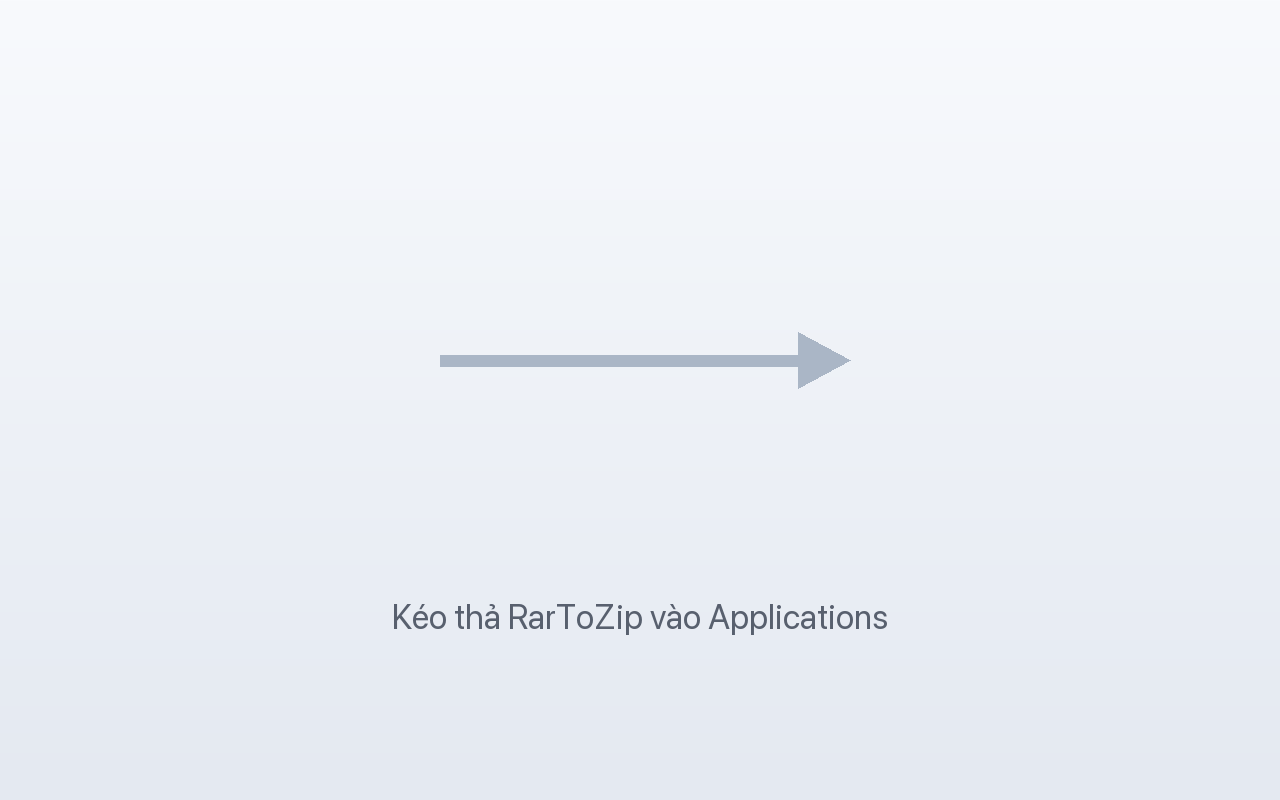
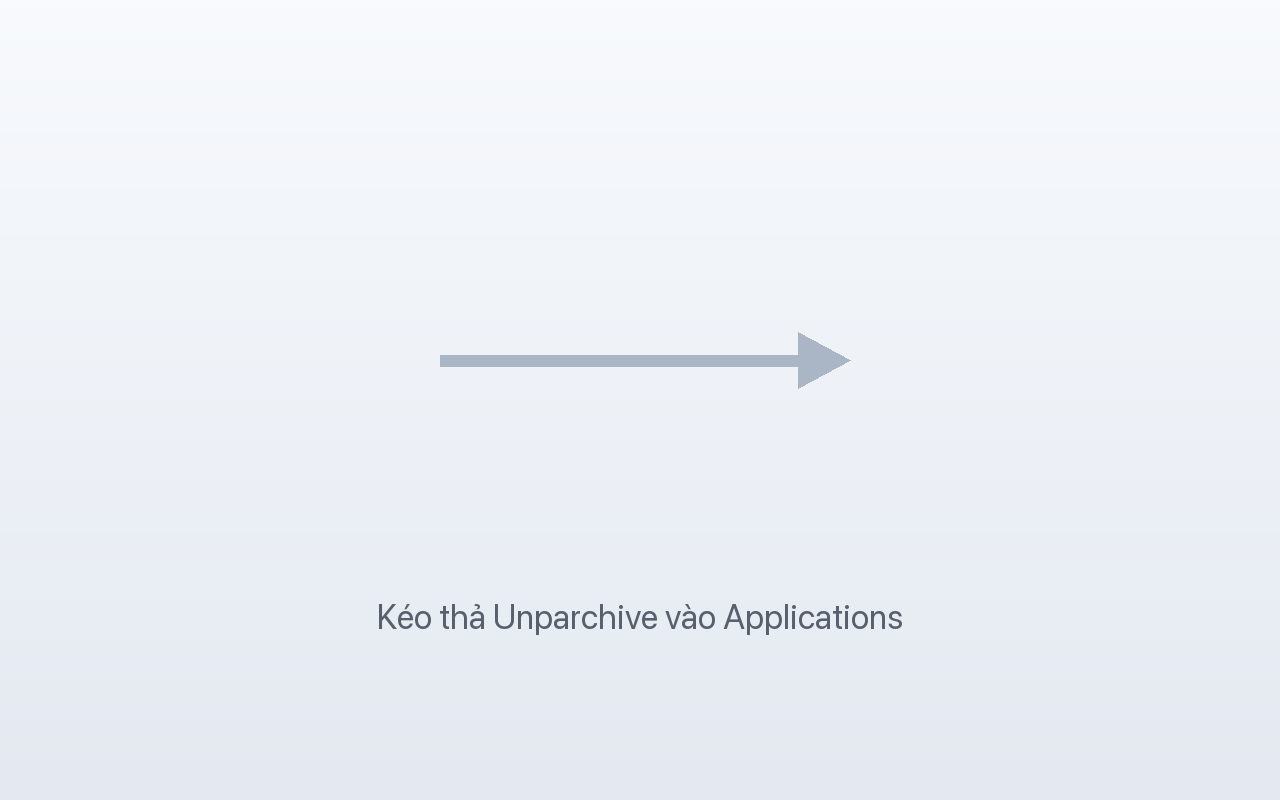
Rename RarToZip → Unparchive (name reflects extraction purpose)

Changed region(s): [[0.2812, 0.75, 0.7188, 0.8125]]

diff --git a/Sources/Unparchive/AppDelegate.swift b/Sources/Unparchive/AppDelegate.swift
@@ -64,7 +64,7 @@ final class AppDelegate: NSObject, NSApplicationDelegate {
     private func extractSilently(urls: [URL]) {
         let archives = ArchiveURL.expand(urls)
         guard !archives.isEmpty else {
-            Notifier.alert(title: "RarToZip", message: "Không tìm thấy file RAR hợp lệ.")
+            Notifier.alert(title: "Unparchive", message: "Không tìm thấy file RAR hợp lệ.")
             return
         }
         jobs.enqueue(
@@ -125,7 +125,7 @@ final class AppDelegate: NSObject, NSApplicationDelegate {
         let appMenuItem = NSMenuItem()
         mainMenu.addItem(appMenuItem)
         let appMenu = NSMenu()
-        appMenu.addItem(withTitle: "Thoát RarToZip", action: #selector(NSApplication.terminate(_:)), keyEquivalent: "q")
+        appMenu.addItem(withTitle: "Thoát Unparchive", action: #selector(NSApplication.terminate(_:)), keyEquivalent: "q")
         appMenuItem.submenu = appMenu
 
         // File menu

diff --git a/Sources/Unparchive/MainWindowController.swift b/Sources/Unparchive/MainWindowController.swift
@@ -72,7 +72,7 @@ final class MainWindowController: NSWindowController {
             backing: .buffered,
             defer: false
         )
-        window.title = "RarToZip"
+        window.title = "Unparchive"
         window.isReleasedWhenClosed = false
         window.center()
 
@@ -392,7 +392,7 @@ final class MainWindowController: NSWindowController {
     private func showError(_ message: String) {
         guard let window = window else { return }
         let alert = NSAlert()
-        alert.messageText = "RarToZip"
+        alert.messageText = "Unparchive"
         alert.informativeText = message
         alert.alertStyle = .warning
         alert.addButton(withTitle: "OK")

diff --git a/Package.swift b/Package.swift
@@ -2,17 +2,17 @@
 import PackageDescription
 
 let package = Package(
-    name: "RarToZip",
+    name: "Unparchive",
     platforms: [
         .macOS(.v15)
     ],
     products: [
-        .executable(name: "RarToZip", targets: ["RarToZip"])
+        .executable(name: "Unparchive", targets: ["Unparchive"])
     ],
     targets: [
         .executableTarget(
-            name: "RarToZip",
-            path: "Sources/RarToZip",
+            name: "Unparchive",
+            path: "Sources/Unparchive",
             linkerSettings: [
                 .linkedFramework("AppKit"),
                 .linkedFramework("Carbon"),

diff --git a/Sources/Unparchive/DefaultHandler.swift b/Sources/Unparchive/DefaultHandler.swift
@@ -3,7 +3,7 @@ import Foundation
 
 enum DefaultHandler {
     static func claimIfPossible() {
-        let bundleID = Bundle.main.bundleIdentifier ?? "com.ngsang.RarToZip"
+        let bundleID = Bundle.main.bundleIdentifier ?? "com.ngsang.Unparchive"
         let types = [
             "com.rarlab.rar-archive",
             "org.nongnu.unar.rar-archive",

diff --git a/Sources/Unparchive/JobQueue.swift b/Sources/Unparchive/JobQueue.swift
@@ -12,7 +12,7 @@ enum JobResult: Sendable {
 }
 
 final class JobQueue: @unchecked Sendable {
-    private let queue = DispatchQueue(label: "com.ngsang.RarToZip.jobs")
+    private let queue = DispatchQueue(label: "com.ngsang.Unparchive.jobs")
     private let converter = ConversionService()
     private let lock = NSLock()
     private var pending = 0
